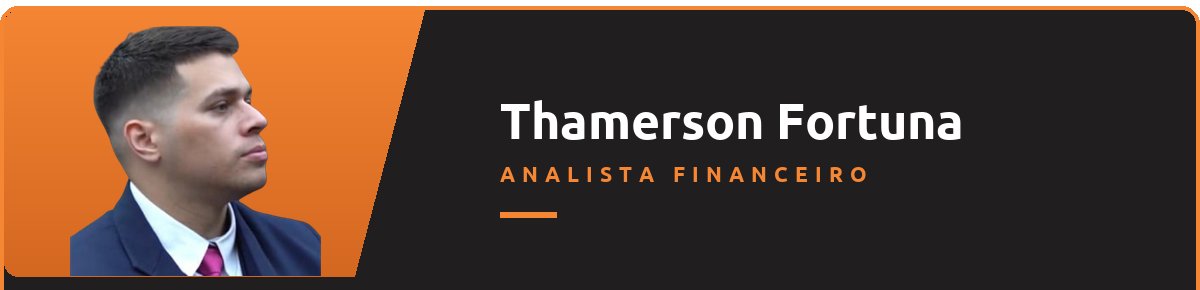
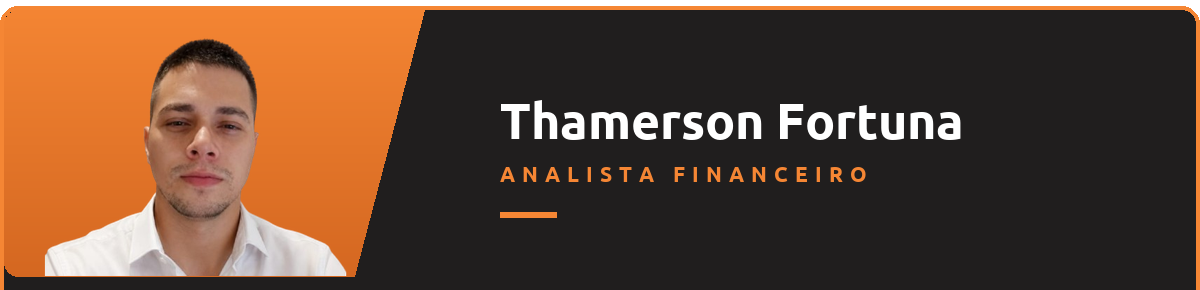
Thamerson: foto nova frontal no card
Troca da foto de perfil (frame de video, espelhada) por retrato frontal
fornecido ja sem fundo. Sobrescrita em v1/ via --forcar no mesmo dia da
publicacao, antes de qualquer instalacao; contatos regeneraram
byte-identicos, so o card muda.

Changed region(s): [[0.0308, 0.0621, 0.3083, 0.9621]]

diff --git a/ferramentas/pessoas.py b/ferramentas/pessoas.py
@@ -113,12 +113,12 @@ PESSOAS = {
         "endereco": ENDERECO_SEDE,
         "maps": MAPS_SEDE,
         "foto": "thamerson-fortuna-limpo.png",
-        # recorte fornecido já sem fundo (500x500), de PERFIL olhando à
-        # esquerda: espelhar=True vira o olhar para o nome. O crop vale para
-        # a imagem JÁ espelhada; estoura os 4 lados (vira laranja) e deixa
-        # look room à direita, para onde ele olha.
-        "crop": (-88, -30, 592, 500),
-        "espelhar": True,
+        # foto TROCADA em 26/08/2026 (mesmo dia da publicação, ninguém tinha
+        # instalado): a 1ª era um perfil de frame de vídeo, espelhado. A nova
+        # é frontal, 430x581, já sem fundo; crop de cabeça e ombros com corte
+        # seco no peito, estourando as laterais (viram laranja).
+        "crop": (-27, -6, 461, 374),
+        "espelhar": False,
     },
 }
 
